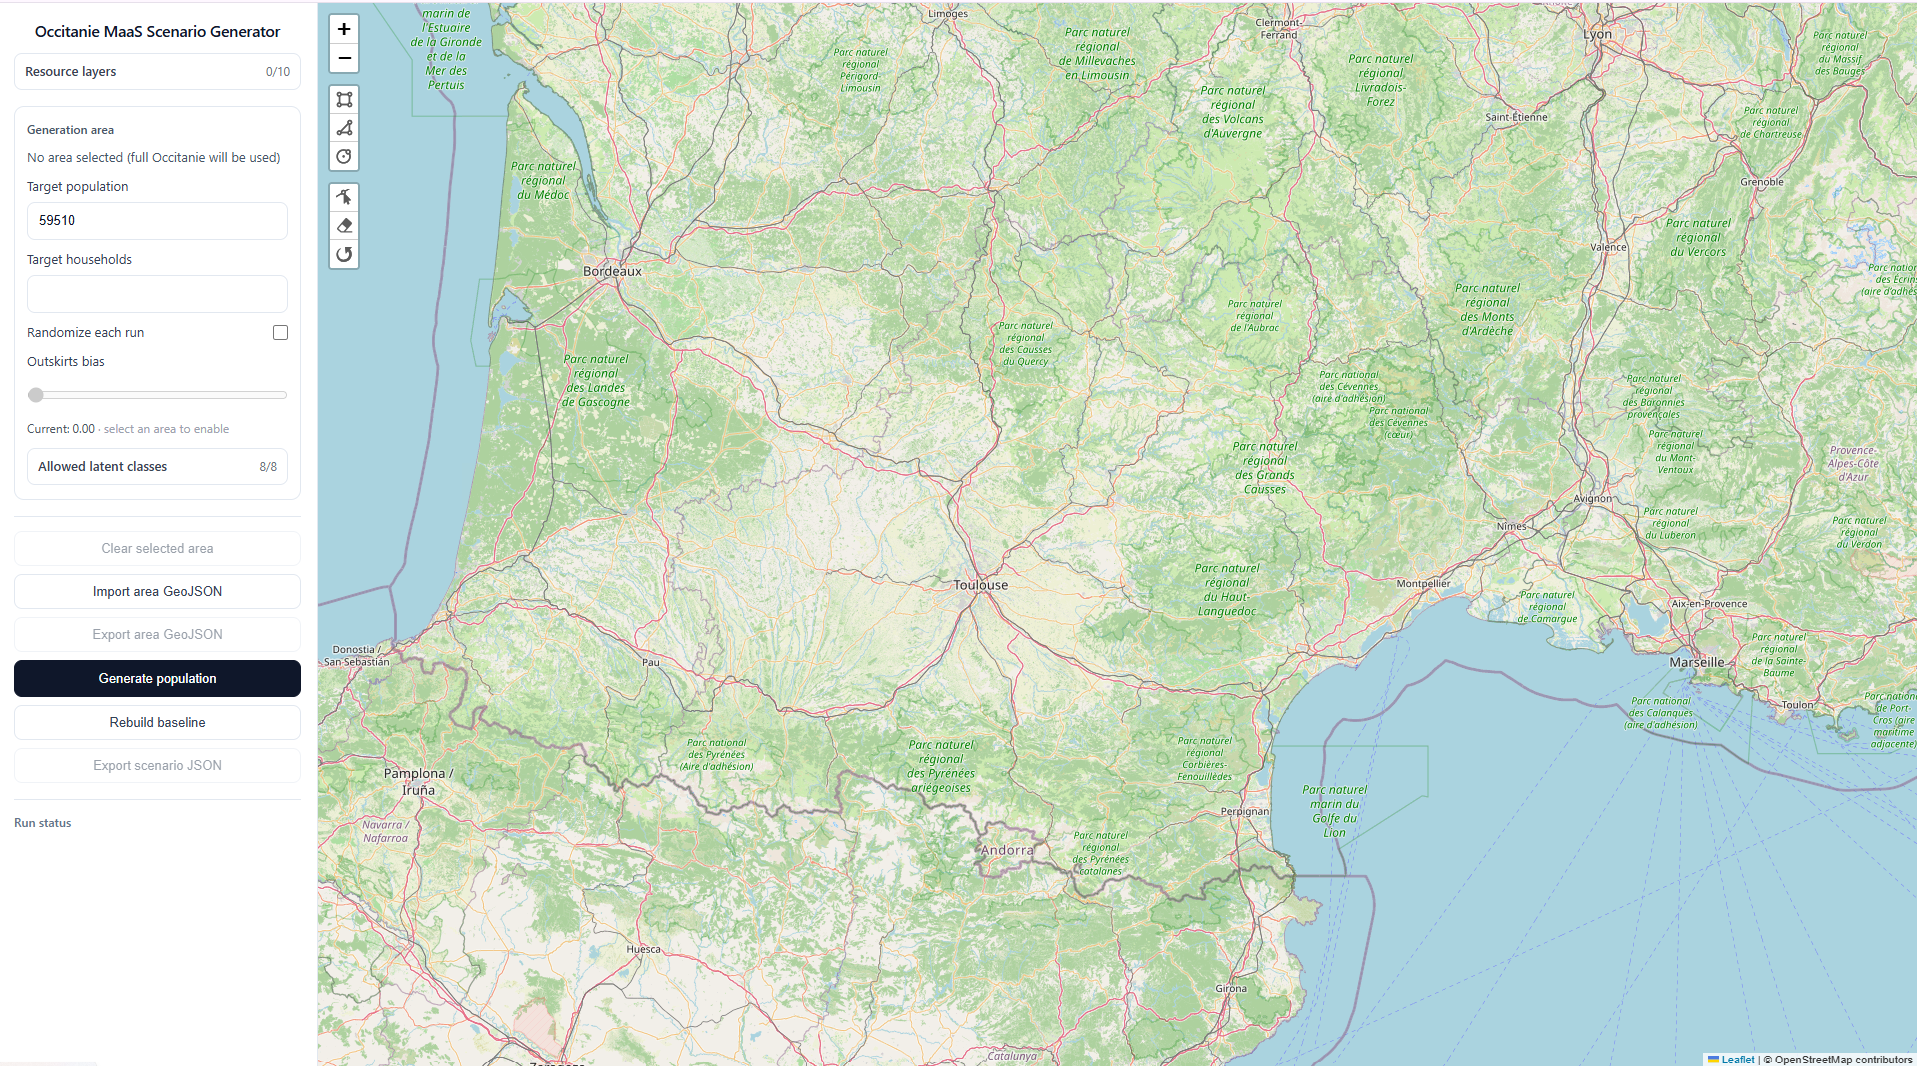
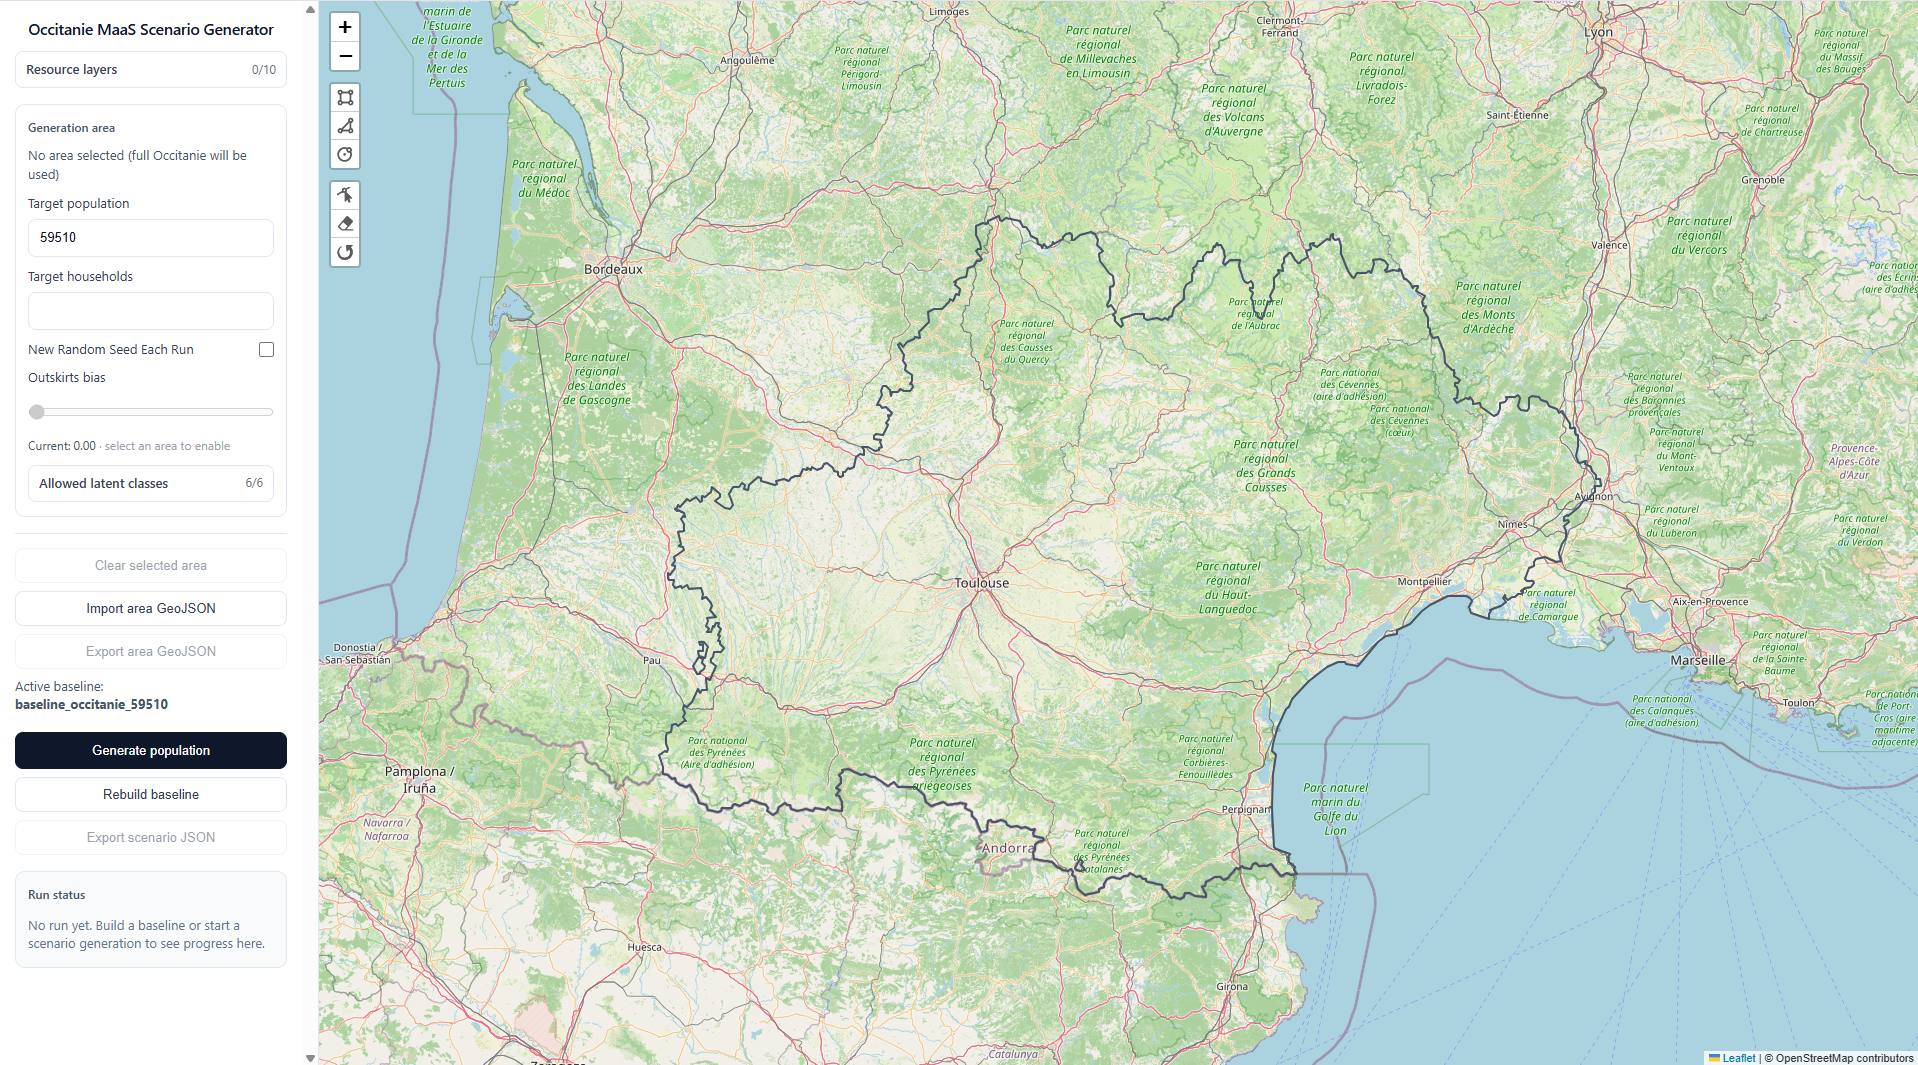
update docs and scenario generator UI screenshot

diff --git a/docs/occitanie-maas/api-and-outputs.md b/docs/occitanie-maas/api-and-outputs.md
@@ -40,14 +40,17 @@ to run rebuild baseline first.
 
 `output/jobs/<run_id>/`:
 
-- `<run_id>_persons.csv` (`latent_class` on scenario runs)
+- `<run_id>_persons.csv` (`latent_class` on scenario runs; `constraints` JSON from baseline)
 - `<run_id>_activities.csv`, `<run_id>_activities.gpkg`
 - `<run_id>_households.csv`
 - resource CSVs when exported (bikes, GTFS, ...)
 
 ## scenario.json
 
-Contains `persons`, `requests` (activity chains with preferences per class), `resources`,
-and `profiles_path`. Returns 409 if persons lack `latent_class`.
+Contains `persons`, `requests` (activity chains with preferences per class and
+`constraints` per leg), `resources`, and `profiles_path`. Returns 409 if persons lack
+`latent_class`.
+
+Constraint assignment is documented in [Person constraints](constraints.md).
 
 Runtime YAML per job is written under the backend runtime config directory (`config_service`).

diff --git a/docs/occitanie-maas/baseline-and-scenarios.md b/docs/occitanie-maas/baseline-and-scenarios.md
@@ -6,9 +6,12 @@
 |--|----------|----------------|
 | Synpp | `synthesis.output` and all upstream stages (cache cleared first) | `synthesis.output` with `baseline_run_path` |
 | `latent_class` in persons CSV | no | yes |
+| `constraints` in persons CSV | yes (JSON list) | copied from baseline |
 | Output dir | `output/baselines/baseline_occitanie_59510/` | `output/jobs/<run_id>/` |
 
-`POST /baseline/rebuild` drops scenario-only keys (`profiles_path`, `assign_latent_classes`, polygon filter, allowed classes, …), clears the synpp `working_directory` cache, runs the pipeline, and promotes `occitanie_*` files into the baseline folder.
+`POST /baseline/rebuild` drops scenario-only keys (`profiles_path`, `assign_latent_classes`, polygon filter, allowed classes, …), enables constraint assignment from `backend/config/constraints.yml`, clears the synpp `working_directory` cache, runs the pipeline, and promotes `occitanie_*` files into the baseline folder.
+
+See [Person constraints](constraints.md) for editing `constraints.yml`.
 
 `POST /jobs` returns 409 until that baseline folder has the required tables (`persons`, `activities`, `households`, `vehicles`, …).
 

diff --git a/docs/occitanie-maas/overview.md b/docs/occitanie-maas/overview.md
@@ -6,7 +6,9 @@ A full synpp run is stored as `output/baselines/baseline_occitanie_59510/` after
 (clears synpp cache and recomputes upstream stages). Later scenario jobs call `synthesis.output` only:
 load that baseline, assign `latent_class`
 from `backend/config/profiles.yml`, apply the polygon and population filters, write
-CSVs under `output/jobs/<run_id>/`. The backend can export `scenario.json` for routing.
+CSVs under `output/jobs/<run_id>/`. Person **constraints** are assigned at baseline
+build from `backend/config/constraints.yml` and copied through to `scenario.json`.
+The backend can export `scenario.json` for routing.
 
 ```
 baseline (full synpp, once)
@@ -23,6 +25,7 @@ scenario job (UI or POST /jobs)
 - `backend/` - FastAPI, job records, scenario export
 - `frontend/` - map, targets, profile filters, bike station overrides
 - `backend/config/profiles.yml` - class rules and preference weights
+- `backend/config/constraints.yml` - person mobility constraints (baseline only)
 - `config_occitanie.yml` - synpp template for Occitanie
 
 Latent classes are written in `synthesis/output`, not in `synthesis.population.enriched`.

diff --git a/docs/occitanie-maas/profiles-and-latent-classes.md b/docs/occitanie-maas/profiles-and-latent-classes.md
@@ -169,12 +169,14 @@ household share it):
 Copy codes from `*_households.csv` in your baseline or run output. Strings and
 numbers both match (`31555` in CSV works with `"31555"` in YAML).
 
-**Home-to-destination distance**:
+**Home-to-destination distance** (straight-line haversine × 1.3 circuity factor):
 
 ```yaml
 - { field: home_destination_distance_km, op: "<", value: 5, points: 2 }
 - { field: home_destination_distance_km, op: ">", value: 25, points: 1 }
 ```
+
+Thresholds are in **approximate road kilometres**, not raw crow-fly distance.
 
 If a rule references a column that is missing after the merge, the job fails with
 `KeyError: Missing field for profile rules: ...`.

diff --git a/docs/occitanie-maas/index.md b/docs/occitanie-maas/index.md
@@ -24,6 +24,7 @@ gathering-the-data.md
 data-layout.md
 quickstart.md
 profiles-and-latent-classes.md
+constraints.md
 baseline-and-scenarios.md
 api-and-outputs.md
 unit-tests.md